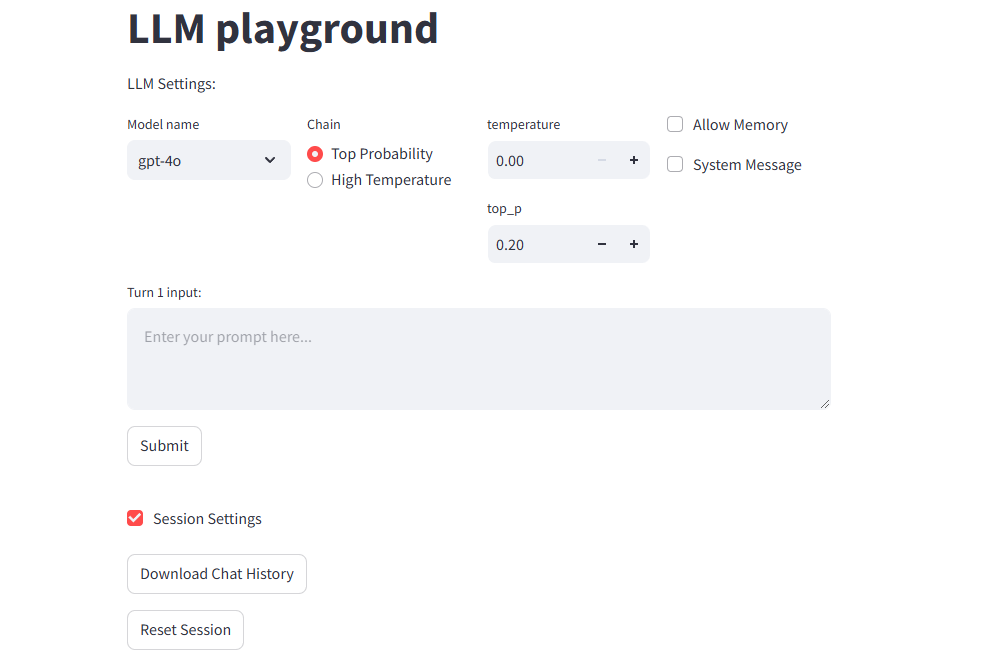
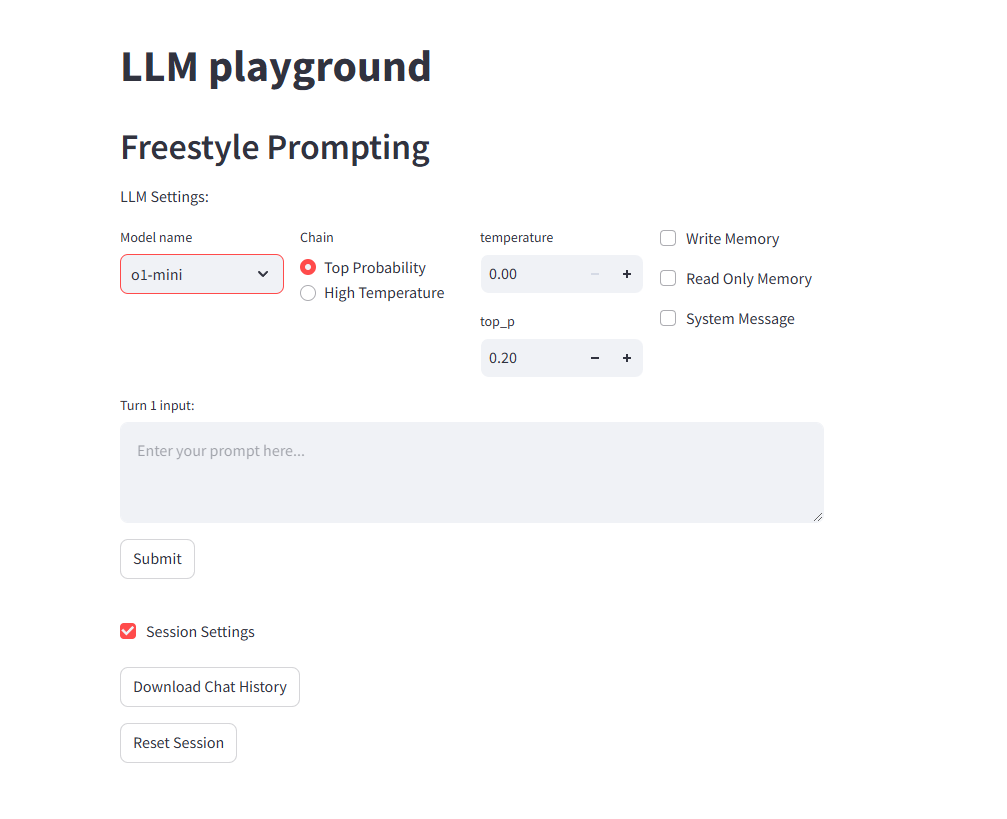
updated README file

diff --git a/freestyle_prompting/README.md b/freestyle_prompting/README.md
@@ -14,19 +14,21 @@ Each user input passes directly to the model in all turns.
 
 **How the app manages the memory through the chat history**:
 - The app saves all interactions
-- When "Allow memory" is `True`, the input prompt adjusts with all the previous turns in which the "Allow memory" was set to `True`
+- When "Write memory" is `True`, the input prompt adjusts with all the previous turns in which the "Write memory" was set to `True`
+- When "Read memory" is `True`, the input prompt adjusts with all the previous turns in which the "Write memory" was set to `True` but doesn't save the current turn
 - When the chat history is downloaded, all turns will appear with the corresponding metadata
 
 
 **The current app does not have**:
 - Dynamic chat interface
 - Pre-built prompts
-- Multi-turn configuration in a single step
 
 
-**Current available models**: gpt-4o, gpt-4o-mini, o1-preview, o1-mini, develop-debugging (FakeChatModel)
+**Current available models**: gpt-4o, gpt-4o-mini, o1-preview, o1-mini, develop-debugging
+
+- **develop-debugging**: This model would not execute any LLM, instead, it will allow you to enter the models output manually. This is for creating synthetic conversation for prompt design purposes.
 
 
-**Interface Preview** _(Outdated)_:
+**Interface Preview**:
 
 ![interface-preview](preview.png)
